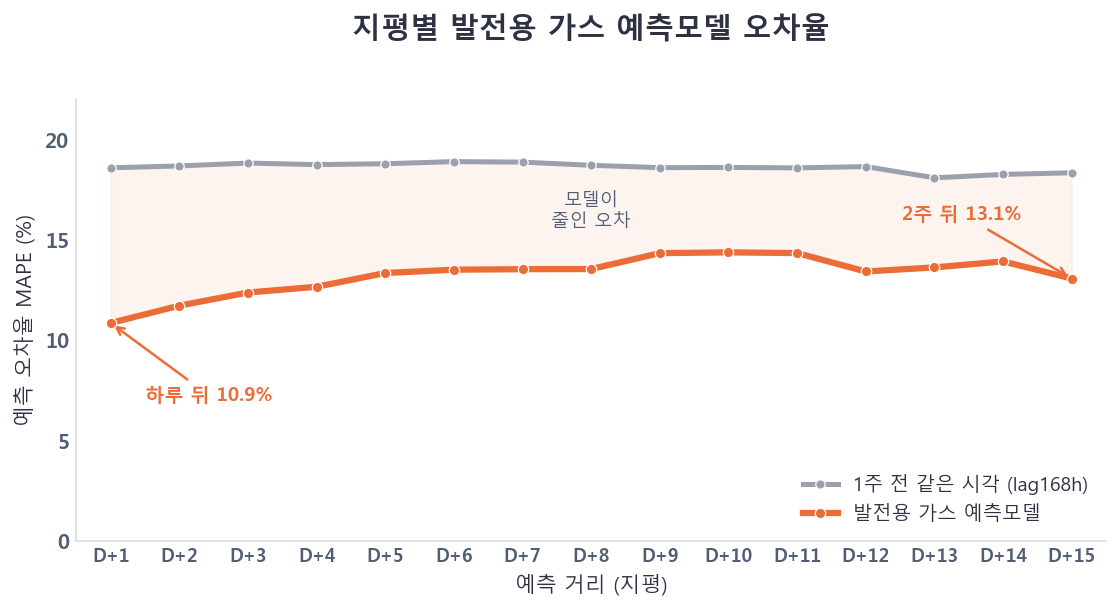
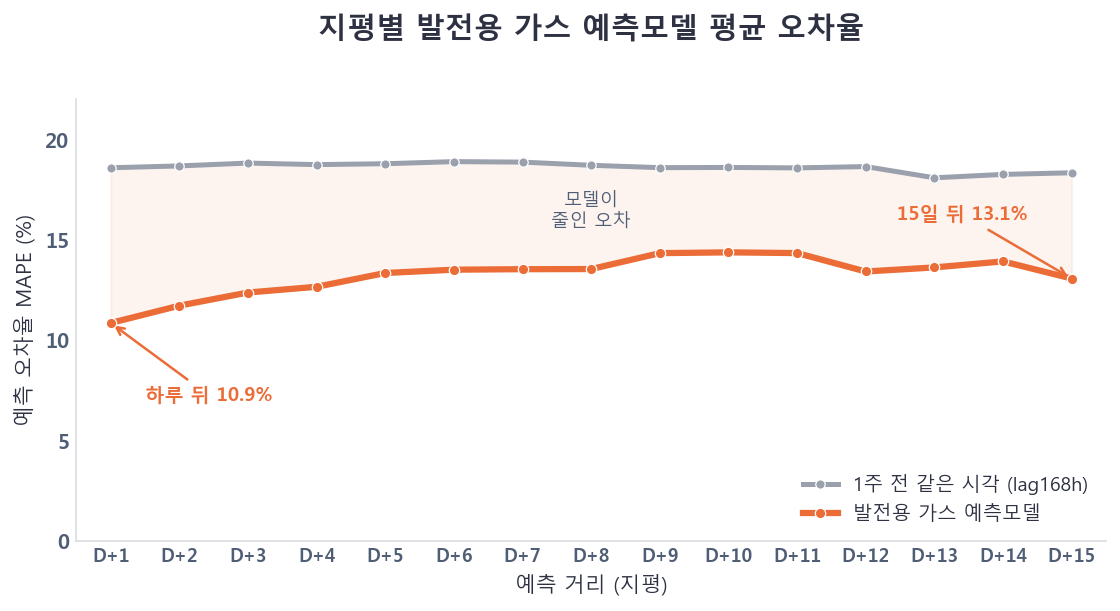
27th minor
very minor change
pill 2x2

Changed region(s): [[0.2812, 0.0, 0.7812, 0.0933], [0.7812, 0.311, 0.9375, 0.3732]]

diff --git a/8. streamlit/page_land.py b/8. streamlit/page_land.py
@@ -418,7 +418,8 @@ def render_longhorizon():
     c1.metric(f"{start:%m-%d}~{end:%m-%d} ({n_days}일) 가스 송출량(예측 합)", f"{ton:,.0f} TON")
     c2.metric("가스비(환산)", f"{cost / 1e8:,.0f} 억원")
     if gm:
-        c3.metric("가스 MAPE", f"{gm['mape']:.1f} %", f"bias {gm['bias']:+.1f}%", delta_color="off")
+        # bias는 delta(아랫줄) 대신 라벨 옆에 — 카드 3개 높이를 똑같이 유지
+        c3.metric(f"가스 MAPE · bias {gm['bias']:+.1f}%", f"{gm['mape']:.1f} %")
 
     render_series_compare(df, prefix="lh", height=480, show_ton=False)
     st.caption("각 날짜의 **가장 최근 발행 예측**을 이어 붙인 미래 전망입니다 · "
@@ -452,9 +453,10 @@ def render_forecast_menu():
                     help="k를 올릴수록 더 먼 미래를 내다본 예측으로 바뀝니다 —\n\n "
                          "지평이 길어질수록 오차가 커지는 '오차 증폭'을 확인할 수 있습니다.")
     WIN_OPTS = {"3일": 3, "7일": 7, "12일": 12, "15일": 15}
-    wsel = c_win.segmented_control("표시 구간", list(WIN_OPTS), default="7일", key="fm_win",
-                                   help="선택일까지 지난 N일을 표시합니다. 15일은 기상청 예보 "
-                                        "축소(D+13~15)로 일부 구간이 빌 수 있습니다.") or "7일"
+    with c_win, st.container(key="fm_win_box"):     # 2×2 pill — 전용 CSS는 common._CSS
+        wsel = st.segmented_control("표시 구간", list(WIN_OPTS), default="7일", key="fm_win",
+                                    help="선택일까지 지난 N일을 표시합니다. 15일은 기상청 예보 "
+                                         "축소(D+13~15)로 일부 구간이 빌 수 있습니다.") or "7일"
     # 선택일 = 구간의 끝 — 기본(오늘)이면 지난 N일이 꽉 찬 화면. 지평(D+k)만 바꿔 오차 증폭을 비교.
     win = WIN_OPTS[wsel]
     end = day

diff --git a/9. design/report/stage7/step7_perf.py b/9. design/report/stage7/step7_perf.py
@@ -95,7 +95,7 @@ ax.plot(H, tab.model, color=ACCENT, lw=3.0, marker='o', ms=5, label=LAB_MODEL,
 ax.annotate(f'하루 뒤 {tab.model[0]:.1f}%', xy=(1, tab.model[0]), xytext=(1.5, tab.model[0] - 3.6),
             fontsize=9.3, color=ACCENT, fontweight='bold', ha='left', va='center',
             arrowprops=dict(arrowstyle='->', color=ACCENT, lw=1.2))
-ax.annotate(f'2주 뒤 {tab.model.iloc[-1]:.1f}%', xy=(15, tab.model.iloc[-1]),
+ax.annotate(f'15일 뒤 {tab.model.iloc[-1]:.1f}%', xy=(15, tab.model.iloc[-1]),
             xytext=(13.4, tab.model.iloc[-1] + 3.2),
             fontsize=9.3, color=ACCENT, fontweight='bold', ha='center', va='center',
             arrowprops=dict(arrowstyle='->', color=ACCENT, lw=1.2))

diff --git a/8. streamlit/common.py b/8. streamlit/common.py
@@ -972,6 +972,11 @@ _CSS = """
 [class*="metric_sm"] [data-testid="stMetricValue"]{ font-size:1.05rem; }
 [class*="metric_sm"] [data-testid="stMetric"]{ padding:.7rem .9rem; }
 
+/* ---- 예측 검증 '표시 구간' pill — 2×2 격자 배치 ---- */
+.st-key-fm_win_box [data-testid="stButtonGroup"]{
+  display:grid !important; grid-template-columns:1fr 1fr; gap:4px; }
+.st-key-fm_win_box [data-testid="stButtonGroup"] button{ width:100%; justify-content:center; }
+
 /* ---- 버튼·캡션 ---- */
 .stButton button p{ font-weight:700; font-size:.88rem; }
 [data-testid="stCaptionContainer"]{ color:#64748b; }
